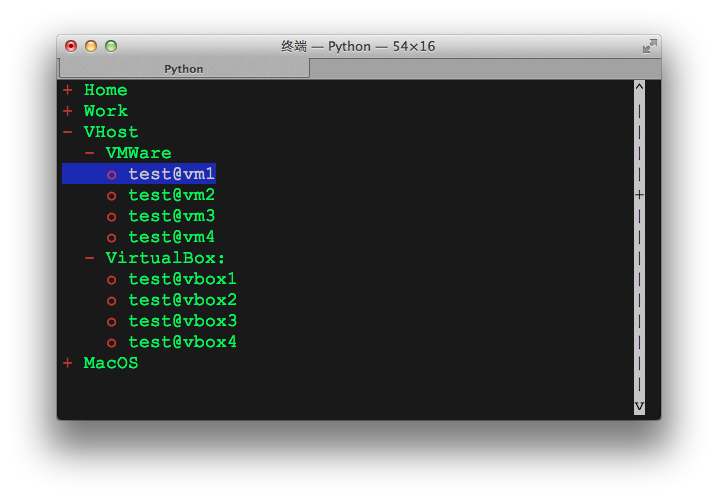
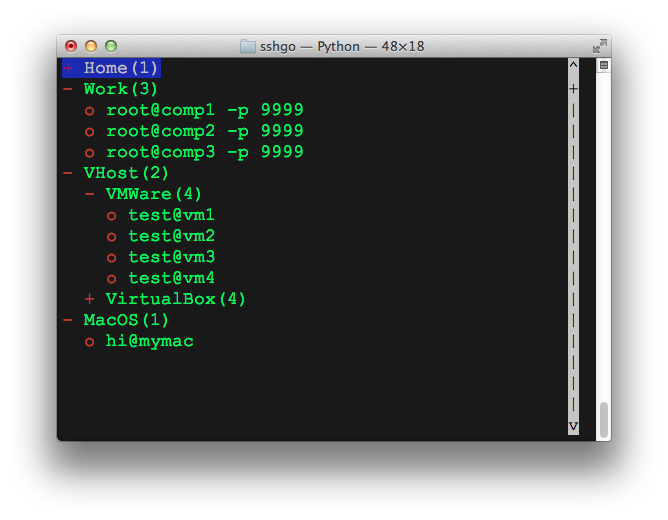
add subline count,use  for closing node

Changed region(s): [[0.0599, 0.0601, 0.9281, 0.8717]]

diff --git a/sshgo.py b/sshgo.py
@@ -38,7 +38,7 @@ class SSHGO:
 
     screen = None
 
-    def _parse_tree_from_config_file(self, config_file, expand=True):
+    def _parse_tree_from_config_file(self, config_file):
         tree = {'line_number':None,'expanded':True,'line':None,'sub_lines':[]} 
         
         def find_parent_line(new_node):
@@ -70,8 +70,13 @@ class SSHGO:
 
         for line in open(config_file, 'r'):
             line_number += 1
-            if line.strip() == '':
+            line_con = line.strip()
+            if line_con == '' or line_con[0] == '#':
                 continue
+            expand = True
+            if line_con[0] == '-':
+                line_con = line_con[1:]
+                expand = False
             indent = re.findall(r'^[\t ]*(?=[^\t ])', line)[0]
             line_level = indent.count('    ') + indent.count('\t')
             if tree_level == None:
@@ -81,7 +86,7 @@ class SSHGO:
                         or line_level == tree_level + 1, 'invalid indent,line:' + str(line_number))
             tree_level = line_level
 
-            new_node = {'level':tree_level,'expanded':expand,'line_number':line_number,'line':line.strip(),'sub_lines':[]}
+            new_node = {'level':tree_level,'expanded':expand,'line_number':line_number,'line':line_con,'sub_lines':[]}
             nodes_pool.append(new_node)
             find_parent_line(new_node)['sub_lines'].append(new_node)
 
@@ -291,6 +296,8 @@ class SSHGO:
             #linenum = self.top_line_number + index
 
             line = node['line']
+            if len(node['sub_lines']):
+                line += '(%d)' % len(node['sub_lines'])
 
             prefix = ''
             if self.search_keyword is None:

diff --git a/README.md b/README.md
@@ -7,7 +7,8 @@ script for managing ssh hosts list
 ![screenshot](https://raw.github.com/emptyhua/sshgo/master/screenshot.png)
 
 ##~/.ssh_hosts example
-    Home
+    #add `-` before the line can close node 
+    -Home
         root@192.168.1.106
     Work
         root@comp1 -p 9999
@@ -19,7 +20,7 @@ script for managing ssh hosts list
             test@vm2
             test@vm3
             test@vm4
-        VirtualBox:
+        -VirtualBox:
             test@vbox1
             test@vbox2
             test@vbox3
